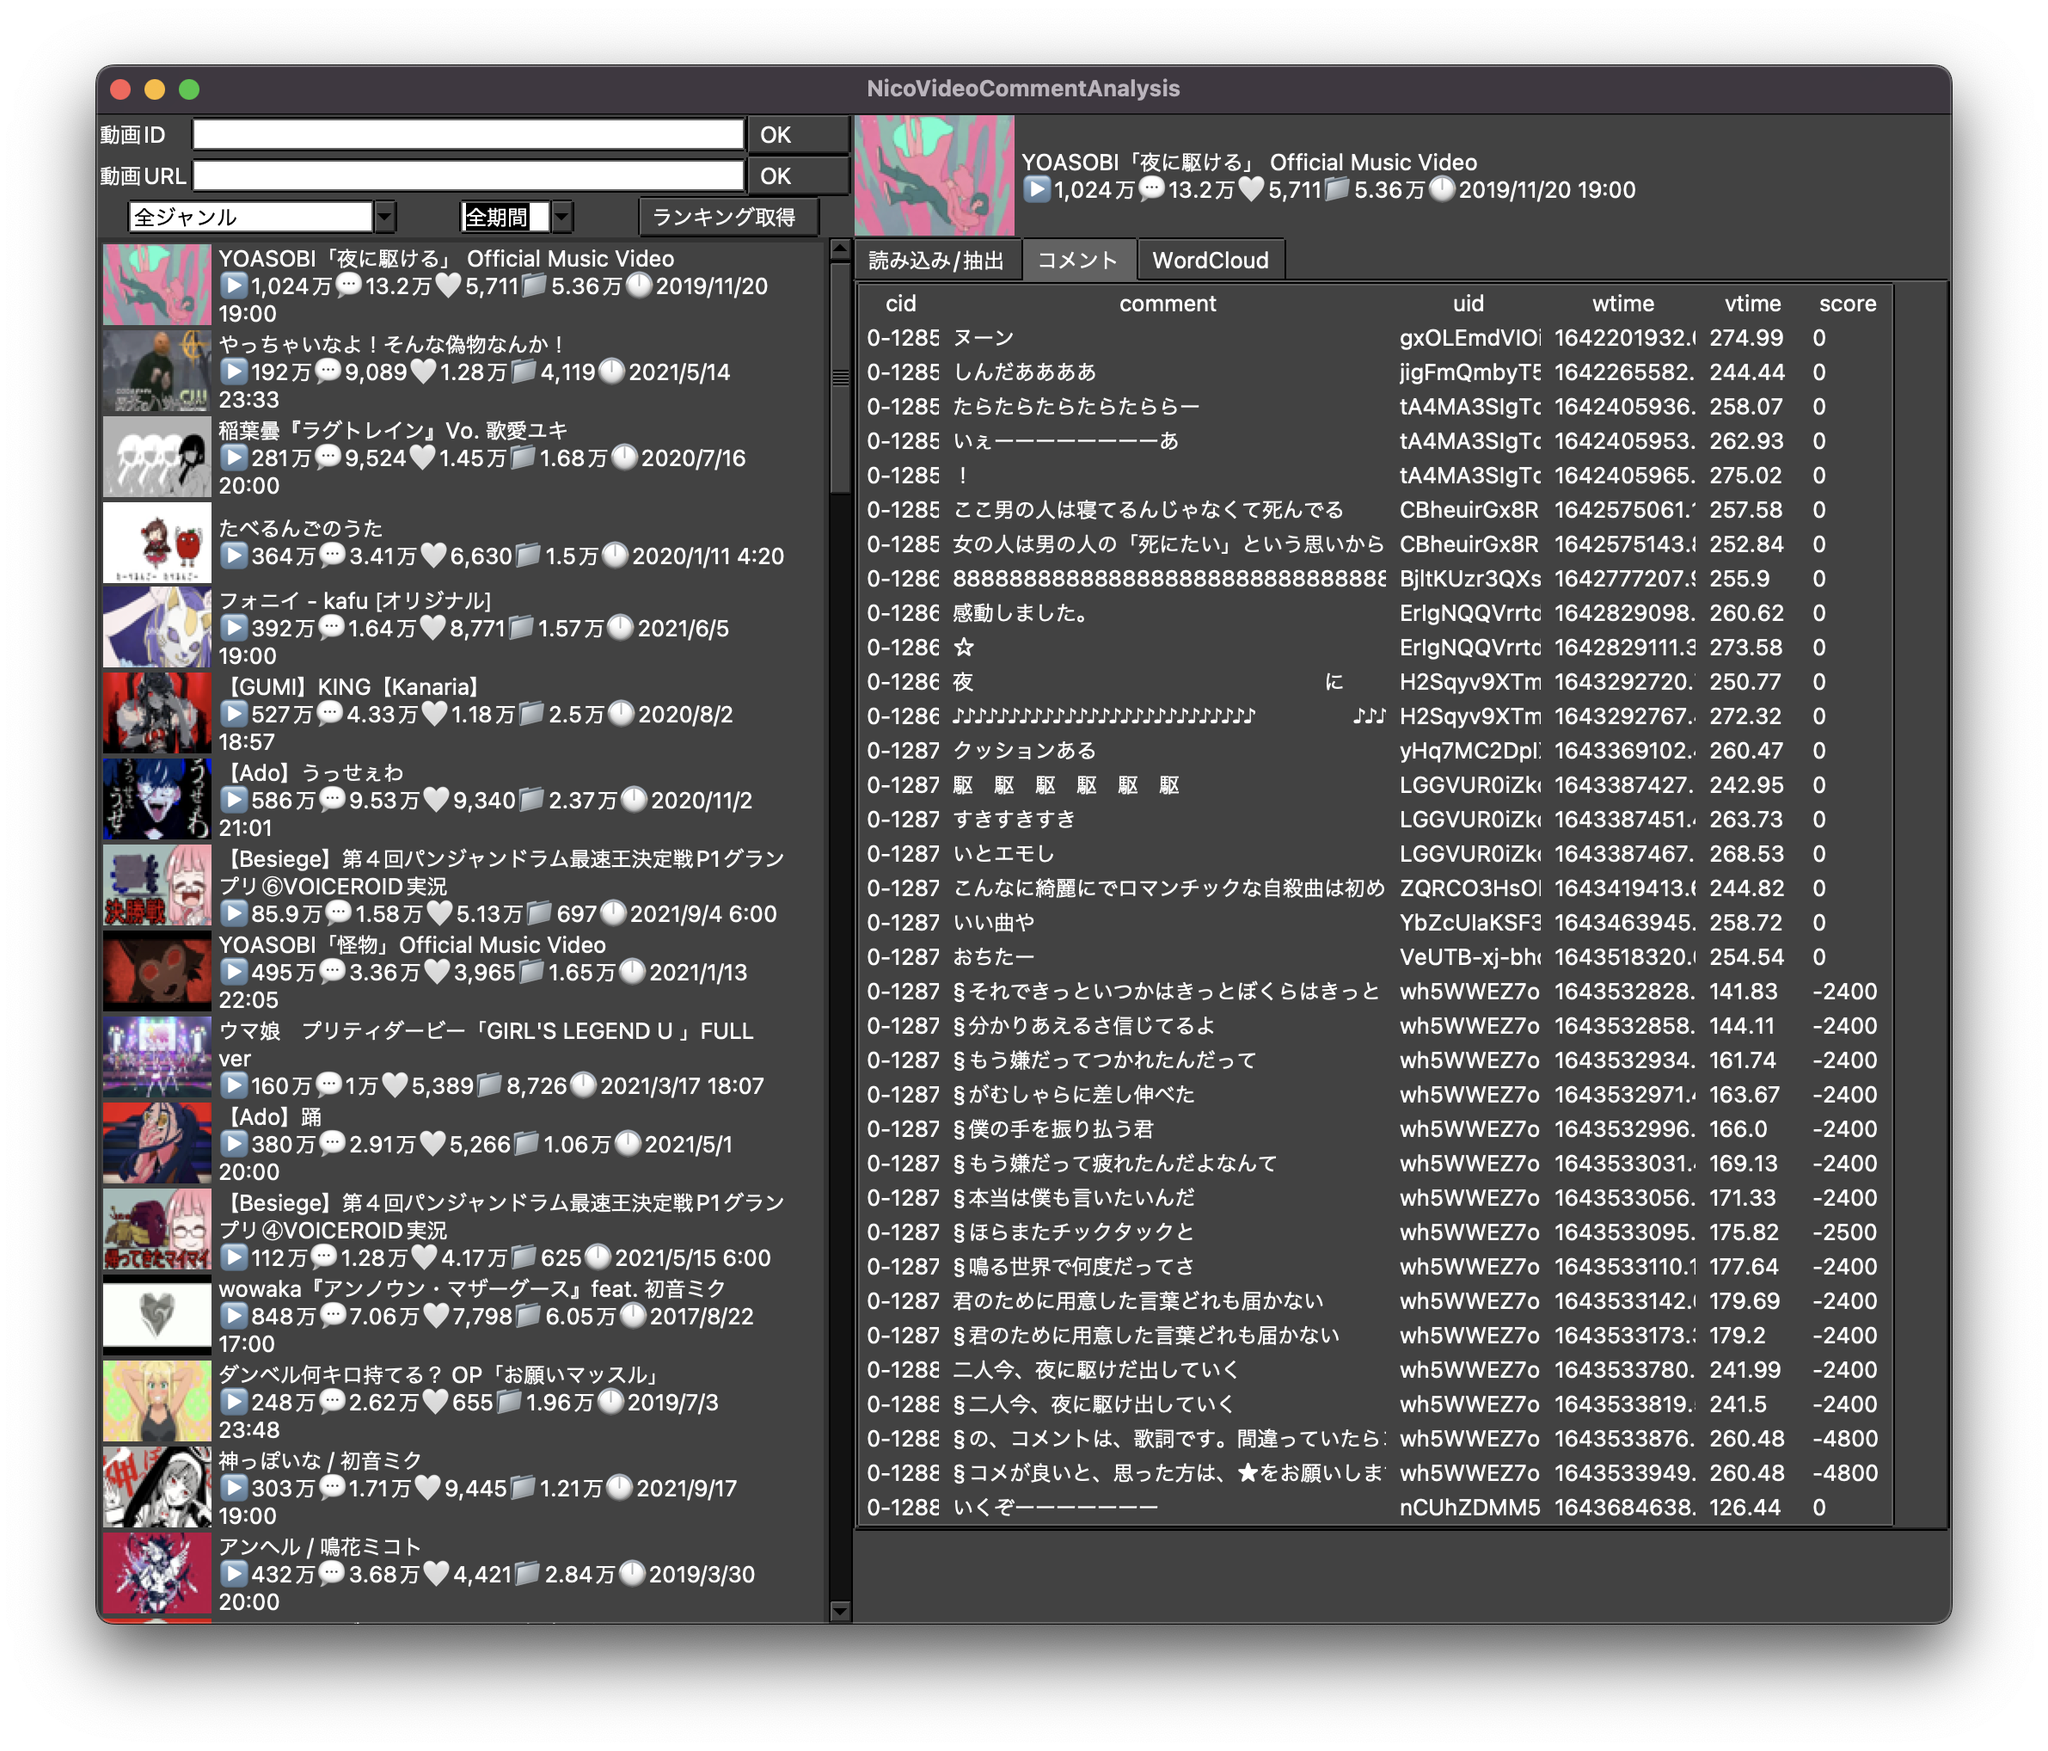
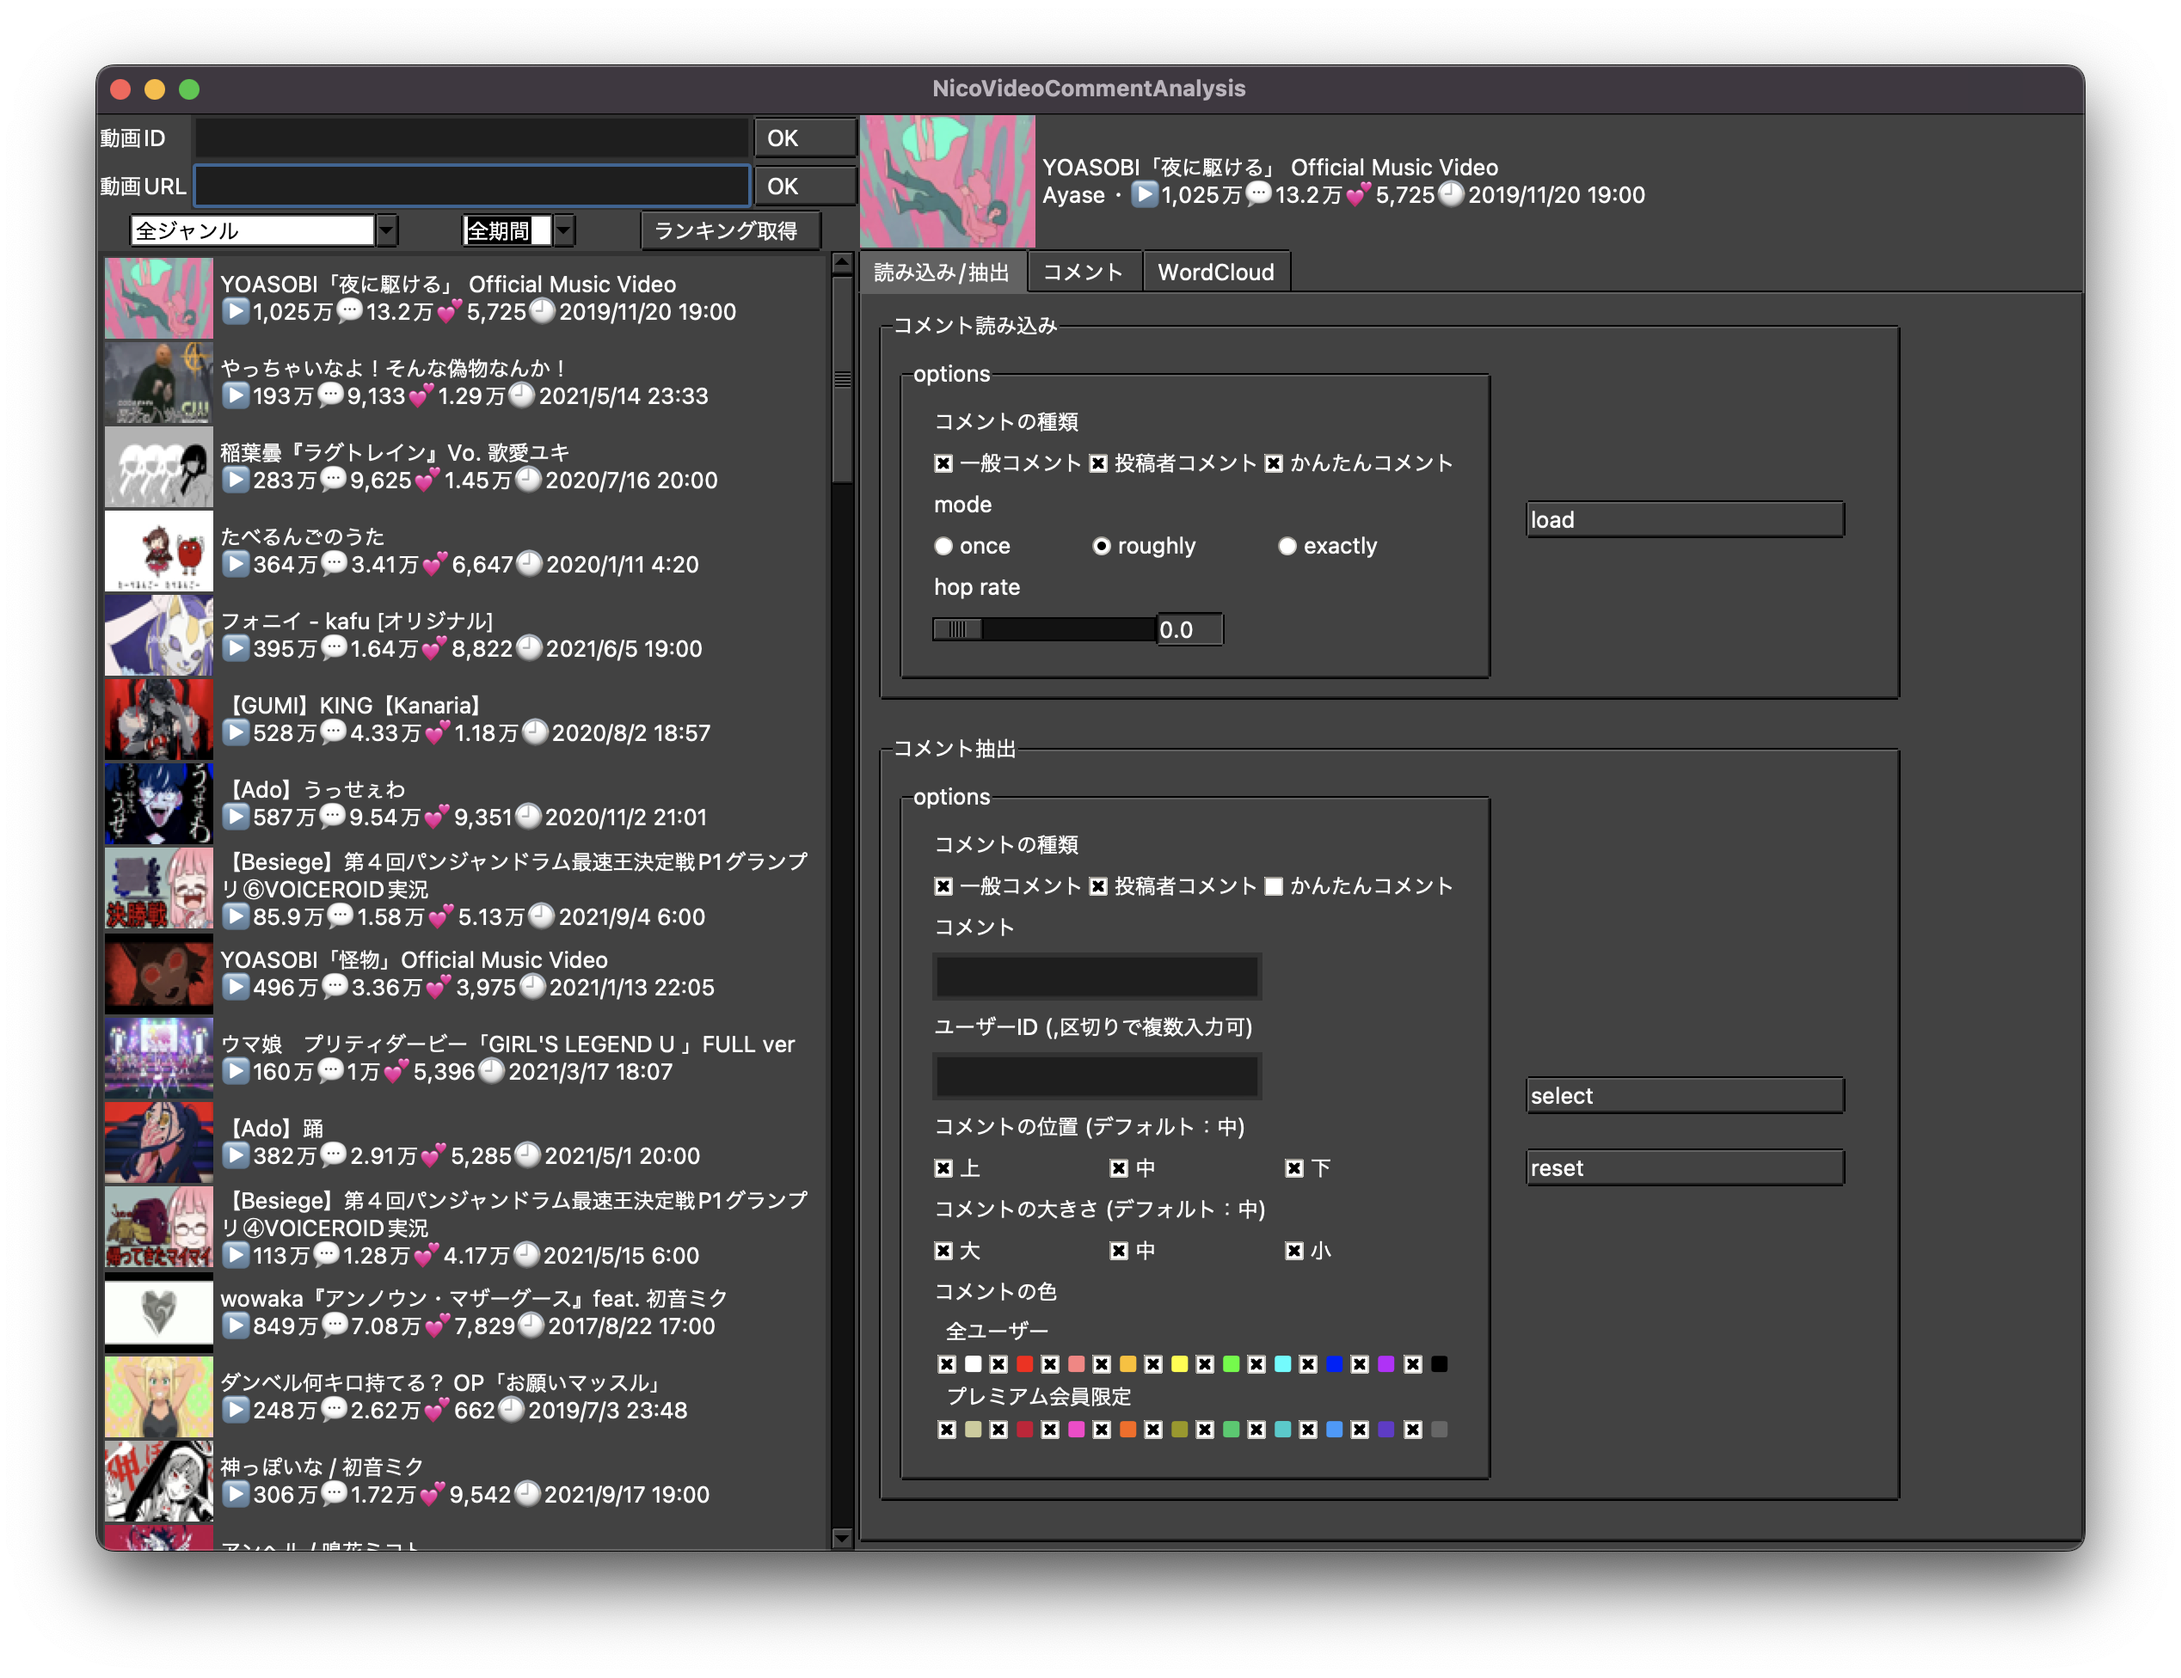
re-add wordcloud output and update readme

Changed region(s): [[0.0311, 0.0312, 0.9631, 0.9375]]

diff --git a/nvca_app.py b/nvca_app.py
@@ -130,7 +130,6 @@ class Application(ttk.Frame):
         self.rviewer_buttons = None
         self.card_button = None
         self.comment_treeview = None
-        self.wordcloud_canvas = None
 
         self.pane1_set()
         self.pane2_set()
@@ -142,6 +141,7 @@ class Application(ttk.Frame):
     def pane2_set(self):
         self.tabs_set()
         self.control_tab_set()
+        self.wordcloud_tab_set()
 
         self.card_view()
         self.comment_view()
@@ -273,7 +273,7 @@ class Application(ttk.Frame):
 
         self.tabs_notebook.add(control_tab, text='読み込み/抽出')
         self.tabs_notebook.add(comment_tab, text='コメント', state='disabled')
-        self.tabs_notebook.add(wordcloud_tab, text='WordCloud')
+        self.tabs_notebook.add(wordcloud_tab, text='WordCloud', state='disabled')
 
         self.tabs_notebook.grid(row=1, column=0)
 
@@ -347,11 +347,11 @@ class Application(ttk.Frame):
             hoprate_scale = ttk.Scale(
                 hoprate_frame,
                 variable=hoprate_val, command=set_hoprate_label,
-                from_=.1, to=.9,
+                from_=0, to=.9,
                 orient=tk.HORIZONTAL,
                 length=130,
             )
-            hoprate_scale.set(.2)
+            hoprate_scale.set(.1)
 
             def load_click_callback():
                 forks = [fork0_var, fork1_var, fork2_var]
@@ -361,6 +361,7 @@ class Application(ttk.Frame):
                     'hop_rate': hoprate_val.get()
                 }
                 self.tabs_notebook.tab(tab_id=tabs_dict['comment'], state='normal')
+                self.tabs_notebook.tab(tab_id=tabs_dict['wordcloud'], state='normal')
 
                 self.comment_load(**options)
                 self.comment_view()
@@ -535,7 +536,7 @@ class Application(ttk.Frame):
                 df = df[df['size'].isin(opt_dict['size'])]
                 df = df[df.color.isin(opt_dict['color'])]
 
-                self.comments_df = df
+                self.comments_df = df.sort_values('write_time')
 
                 self.comment_view()
 
@@ -601,6 +602,35 @@ class Application(ttk.Frame):
             self.ebuttons_frame = buttons_frame
 
         extract_set()
+
+    def wordcloud_tab_set(self):
+        notebook, tabs_dict = self.tabs_notebook, self.tabs_dict
+        tab_frame = notebook.nametowidget(notebook.tabs()[tabs_dict['wordcloud']])
+
+        def plot_click_callback():
+            self.wordcloud_generate()
+            self.wordcloud_view()
+
+        note_label = ttk.Label(
+            tab_frame,
+            text='読み込みや抽出の際に「かんたんコメント」を除去しておくのがおすすめです'
+        )
+
+        plot_button = ttk.Button(
+            tab_frame, text='plot', command=plot_click_callback,
+        )
+
+        wordcloud_canvas = tk.Canvas(
+            tab_frame,
+            width=WORDCLOUD_W,
+            height=WORDCLOUD_H
+        )
+
+        note_label.pack()
+        plot_button.pack()
+        wordcloud_canvas.pack()
+
+        self.wordcloud_canvas = wordcloud_canvas
 
     def ranking_view(self):
         _ = [button.destroy() for button in self.rcards_frame.winfo_children()]
@@ -777,34 +807,22 @@ class Application(ttk.Frame):
         self.comment_treeview = comment_treeview
 
     def wordcloud_view(self):
-        notebook, tabs_dict = self.tabs_notebook, self.tabs_dict
-        tab_frame = notebook.nametowidget(notebook.tabs()[tabs_dict['wordcloud']])
-
-        wordcloud_canvas = tk.Canvas(
-            tab_frame,
-            width=WORDCLOUD_W,
-            height=WORDCLOUD_H
-        )
+        wordcloud_canvas = self.wordcloud_canvas
 
         wordcloud = Image.open('./wordcloud.png')
         wordcloud = ImageTk.PhotoImage(wordcloud)
         wordcloud_canvas.create_image(0, 0, image=wordcloud, anchor=tk.NW)
         wordcloud_canvas.photo = wordcloud
-        wordcloud_canvas.grid(row=0, column=0)
-
-        self.wordcloud_canvas = wordcloud_canvas
 
     def comment_load(self, **options):
         self.ninfo.load_comments(**options)
-        comments_df = self.ninfo.comments_df
 
-        self.comments_df = comments_df
-        self.org_df = comments_df.copy()
+        self.comments_df = self.ninfo.comments_df.copy()
+        self.org_df = self.comments_df.copy()
 
     def wordcloud_generate(self):
-        df = self.comments_df[self.comments_df.index.str[0] == '0']
-        comments = df.comment
-        results = analyze_comments(comments, tokenizer='janome')
+        df = self.comments_df
+        results = analyze_comments(df.comment, tokenizer='janome')
         text = ' '.join(results)
 
         font_path = '/System/Library/Fonts/ヒラギノ角ゴシック W3.ttc'

diff --git a/README.md b/README.md
@@ -4,6 +4,9 @@
 - コメントの読み込み部分は大体 OK
     - ~~総当り的に読み込んでいるので正直効率は悪い~~
         - 読み込めないコメントの原因が削除かたまたまか分からないのである程度妥協
+        - あまりにもコメント数が多いと途中でアクセス遮断されてしまうため，対策が必要
+            - 目安として，1万前後なら現状でもそこそこ平気
+            - 簡単な対策として，待ち時間を入れる等の処理を加える予定
 - WordCloud は形態素解析で取り出した名詞を解析の対象としている
     - 他の品詞対応はできたらやる
     - 傾向を掴むためなら名詞で十分な気はする
@@ -13,10 +16,11 @@
 ## App
 - Tkinter を用いてアプリケーション化してみた
     - 動画URL，IDを直接入力する他，ランキングから動画を取り込む機能を実装
-    - コメントをロードしてから wordcloud で解析した結果を表示
-    - GUIの実装は初めてだったのでコードがごちゃついた
-- 条件によるコメント抽出や保存機能の実装，UI 部分の改良など，できたらやる
+    - コメントの抽出機能を実装
+    - ~~GUIの実装は初めてだったのでコードがごちゃついた~~
+- 保存機能の実装，UI 部分の改良など，できたらやる
     - パッケージ化とかもう少し扱いやすい形にする所まではしたい
 
-![アプリ実行例 コメント](img/app_ss1.png)
-![アプリ実行例 WordCloud](img/app_ss2.png)
+![アプリ実行例 読み込みと抽出](img/app_ss1.png)
+![アプリ実行例 コメント](img/app_ss2.png)
+![アプリ実行例 WordCloud](img/app_ss3.png)
